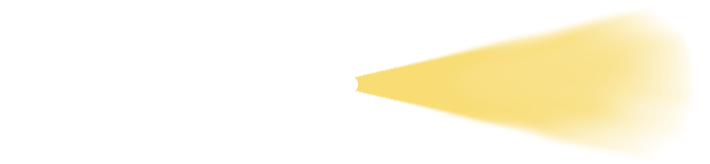
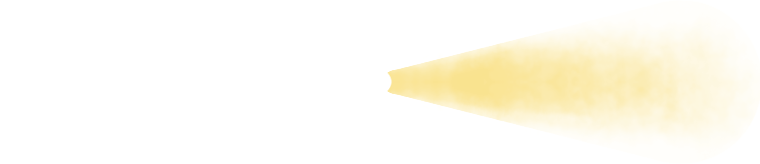
rework de sprites e implementação de sistema de estamina

Changed region(s): [[0.4958, 0.061, 0.9606, 0.9146]]

diff --git a/cliente/js/patio.js b/cliente/js/patio.js
@@ -5,12 +5,8 @@ export default class abertura extends Phaser.Scene {
   constructor () {
     super('patio')
     this.threshold = 0.1
-    this.speed = 110
-    this.frameRate = 25
     this.direcaoAtual = 'frente'
   }
-  //Corrida 110 25
-  //Caminhada 75 18
 
   init() { }
 
@@ -24,7 +20,7 @@ export default class abertura extends Phaser.Scene {
       frameHeight: 64
     })
 
-    this.load.spritesheet('Dan', 'assets/Dan.png', {
+    this.load.spritesheet('Dan', 'assets/dan.png', {
       frameWidth: 64,
       frameHeight: 64
     })
@@ -49,6 +45,8 @@ export default class abertura extends Phaser.Scene {
   }
 
   create() {
+
+    //Sons
     this.trilha = this.sound.add("trilha-sonora", {
       loop: true,
       volume: 0.4,
@@ -57,6 +55,9 @@ export default class abertura extends Phaser.Scene {
       loop: true,
       volume: 0.2
     }).play()
+    this.passos = this.sound.add('passos', {
+      volume: 0.5,
+    })
 
     this.tilemapMapa = this.make.tilemap({ key: 'mapa' })
     // Da um nome prar cada Tileset
@@ -69,12 +70,14 @@ export default class abertura extends Phaser.Scene {
     this.layerChao = this.tilemapMapa.createLayer('chao', [this.tilesetGrama, this.tilesetPedras])
 
     this.lanternaLocal = this.add.image(0, 0, 'lanterna')
-    this.lanternaLocal.setAlpha(0.5)
-    this.lanternaLocal.setBlendMode(Phaser.BlendModes.ADD)
+    this.lanternaLocal
+      .setAlpha(0.7)
+      .setBlendMode(Phaser.BlendModes.ADD)
 
     this.lanternaRemota = this.add.image(0, 0, 'lanterna')
-    this.lanternaRemota.setAlpha(0.5)
-    this.lanternaRemota.setBlendMode(Phaser.BlendModes.ADD)
+    this.lanternaRemota
+      .setAlpha(0.7)
+      .setBlendMode(Phaser.BlendModes.ADD)
 
     if (this.game.jogadores.primeiro === this.game.socket.id) {
       this.game.remoteConnection = new RTCPeerConnection(this.game.iceServers);
@@ -122,6 +125,35 @@ export default class abertura extends Phaser.Scene {
 
       this.personagemLocal = this.physics.add.sprite(300, 400, 'ernesto')
       this.personagemRemoto = this.add.sprite(350, 450, 'Dan')
+      this.speed = 75
+      this.frameRate = 18
+      this.personagemLocal.stamina = 650
+      this.personagemLocal.cansado = 0
+
+      this.barraStaminaMeio = this.add.circle(0, 0, 150 / 50, 0x000000)
+      this.barraStaminaMeio.depth = 102
+
+      this.barraStamina = this.add.circle(0, 0, this.personagemLocal.stamina / 50, 0x1a620e)
+      this.barraStamina.depth = 101
+
+      this.barraStaminaFundo = this.add.circle(0, 0, 700 / 50, 0x000000)
+      this.barraStaminaFundo.depth = 100
+
+      //Botão de corrida
+      this.add.circle(700, 400, 30, 0xcccccc)
+        .setInteractive()
+        .setScrollFactor(0)
+        .on('pointerdown', () => {
+          this.speed = 150
+          this.frameRate = 25
+          this.personagemLocal.movimento = 'correndo'
+        })
+        .on('pointerup', () => {
+          this.speed = 90
+          this.frameRate = 18
+          this.personagemLocal.movimento = 'andando'
+        })
+        .depth = 100
 
     } else if (this.game.jogadores.segundo === this.game.socket.id) {
       this.game.localConnection = new RTCPeerConnection(this.game.iceServers);
@@ -170,6 +202,35 @@ export default class abertura extends Phaser.Scene {
 
       this.personagemLocal = this.physics.add.sprite(350, 450, 'Dan')
       this.personagemRemoto = this.add.sprite(300, 400, 'ernesto')
+      this.speed = 90
+      this.frameRate = 18
+      this.personagemLocal.stamina = 650
+      this.personagemLocal.cansado = 0
+
+      this.barraStaminaMeio = this.add.circle(0, 0, 150 / 50, 0x000000)
+      this.barraStaminaMeio.depth = 102
+
+      this.barraStamina = this.add.circle(0, 0, this.personagemLocal.stamina / 50, 0x1a620e)
+      this.barraStamina.depth = 101
+
+      this.barraStaminaFundo = this.add.circle(0, 0, 700 / 50, 0x000000)
+      this.barraStaminaFundo.depth = 100
+
+      //Botão de corrida
+      this.add.circle(700, 400, 30, 0xcccccc)
+        .setInteractive()
+        .setScrollFactor(0)
+        .on('pointerdown', () => {
+          this.speed = 150
+          this.frameRate = 25
+          this.personagemLocal.movimento = 'correndo'
+        })
+        .on('pointerup', () => {
+          this.speed = 90
+          this.frameRate = 18
+          this.personagemLocal.movimento = 'andando'
+        })
+        .depth = 100
 
     } else {
       window.alert("Sala cheia!")
@@ -202,13 +263,6 @@ export default class abertura extends Phaser.Scene {
     };
 
     this.layerObjetos = this.tilemapMapa.createLayer('objetos', [this.tilesetArvores])
-    //
-
-    this.anims.create({
-      key: 'botao',
-      frames: this.anims.generateFrameNumbers('botao', { start: 0, end: 0 }),
-      frameRate: 30
-    })
 
 
     //Fisica do player
@@ -216,10 +270,8 @@ export default class abertura extends Phaser.Scene {
     this.layerObjetos.setCollisionByProperty({ collides: true })
     this.physics.add.collider(this.personagemLocal, this.layerObjetos)
     this.cameras.main.startFollow(this.personagemLocal, true, 0.05, 0.05)
-    //
 
     //Animacoes do personagem andando
-
     this.anims.create({
       key: 'personagem-andando-baixo',
       frames: this.anims.generateFrameNumbers(this.personagemLocal.texture.key, { start: 0, end: 12 }),
@@ -321,7 +373,7 @@ export default class abertura extends Phaser.Scene {
     })
 
     //Camada para escurecer o fundo
-    this.noite = this.add.rectangle(0, 0, 1600, 1200, 0x472a66, 0.75)
+    this.noite = this.add.rectangle(1600, 1200, 1600, 1200, 0x472a66, 0.75)
     this.noite.setBlendMode(Phaser.BlendModes.MULTIPLY)
 
     //chuva
@@ -344,68 +396,85 @@ export default class abertura extends Phaser.Scene {
       thumb: this.add.circle(120, 360, 25, 0xcccccc)
     })
 
-    //tenta Fullscreen
-    /*
-     this.fullscreen = this.add.rectangle(0, 0, 5000, 3000, 0x000000, 0)
-    this.fullscreen.setInteractive()
-      .on('pointerdown', () => {
-        this.scale.startFullscreen()
-        this.fullscreen.destroy()
-      })
-    */
-
-    //Modulação dos passos
-    this.passos = this.sound.add('passos', {
-      volume: 0.5,
-    })
-
-    //Botão de corrida
-    this.add.circle(700, 400, 30, 0xcccccc)
-      .setInteractive()
-      .setScrollFactor(0)
-      .on('pointerdown', () => {
-        this.speed = 110
-        this.frameRate = 25
-      })
-      .on('pointerup', () => {
-        this.speed = 75
-        this.frameRate = 18
-      })
     this.gatos = [
       { x: 100, y: 100 },
       { x: 100, y: 200 },
       { x: 200, y: 200 },
       { x: 250, y: 300 },
     ]
-    
+
     this.gatos.forEach((gato) => {
       gato.objeto = this.physics.add.sprite(gato.x, gato.y, 'gato')
       gato.objeto.play('gato-teste')
-      this.physics.add.overlap(this.personagemLocal, gato.objeto, (personagem, gato) => {gato.disableBody(true, true)}, null, this)
-     });
+      this.physics.add.overlap(this.personagemLocal, gato.objeto, (personagem, gato) => { gato.disableBody(true, true) }, null, this)
+    });
   }
 
   update() {
-    console.log(this.angleRemoto)
+    console.log(this.barraStaminaFundo.radius)
+    this.barraStamina.setAlpha(1)
 
     const angle = Phaser.Math.DegToRad(this.joystick.angle) // Converte o ângulo para radianos
     const force = this.joystick.force
 
+    if (angle != 0) {
+      this.ultimoAngulo = angle
+    }
+
+    if (this.personagemLocal.movimento == 'andando' && this.personagemLocal.stamina != 650) {
+      this.personagemLocal.stamina += 1
+      this.barraStamina.radius = this.personagemLocal.stamina / 50
+
+    } else if (this.personagemLocal.stamina == 650) {
+      this.personagemLocal.cansado = 0
+      this.barraStamina.setFillStyle(0x309a06)
+      this.barraStamina.setAlpha(0)
+      // this.barraStaminaFundo.setAlpha(0)
+      this.barraStaminaMeio.setAlpha(1)
+      this.barraStaminaMeio.setFillStyle(0x309a06)
+
+      if (this.barraStaminaFundo.radius >= this.barraStaminaMeio.radius + 1) {
+        this.barraStaminaFundo.radius -= 0.4
+      }
+    }
+
     this.lanternaRemota.setPosition(this.personagemRemoto.x, this.personagemRemoto.y + 15)
     this.lanternaRemota.setRotation(this.angleRemoto)
+    this.lanternaLocal.setPosition(this.personagemLocal.x, this.personagemLocal.y + 15)
+    this.lanternaLocal.setRotation(this.ultimoAngulo)
+    this.noite.setPosition(this.personagemLocal.x, this.personagemLocal.y)
 
     if (force > this.threshold) {
-
 
       const velocityX = Math.round(Math.cos(angle) * this.speed)
       const velocityY = Math.round(Math.sin(angle) * this.speed)
 
-      this.lanternaLocal.setPosition(this.personagemLocal.x, this.personagemLocal.y + 15)
-      this.lanternaLocal.setRotation(angle)
+      if (this.personagemLocal.cansado == 0) {
+        if (this.personagemLocal.movimento == 'correndo' && this.personagemLocal.stamina > 150) {
+          this.personagemLocal.stamina -= 1
+          this.barraStamina.setAlpha(1)
+          this.barraStaminaFundo.setAlpha(1)
+          this.barraStaminaMeio.setAlpha(1)
+          this.barraStaminaMeio.setFillStyle(0x000000)
+          this.barraStamina.radius = this.personagemLocal.stamina / 50
+          this.barraStaminaFundo.radius = 650 / 50 + 2
+        }
+        else if (this.personagemLocal.stamina == 150) {
+          this.personagemLocal.movimento = 'andando'
+          this.personagemLocal.cansado = 1
+          this.barraStamina.setAlpha(1)
+          this.barraStaminaFundo.setAlpha(1)
+          this.barraStaminaMeio.setAlpha(1)
+          this.barraStamina.setFillStyle(0x9a3706)
+          this.speed = 75
+        }
+      }
 
       this.personagemLocal.setVelocity(velocityX, velocityY)
       this.cameras.main.followOffset.setTo(- velocityX, - velocityY)
-      this.noite.setPosition(this.personagemLocal.x, this.personagemLocal.y)
+      this.barraStamina.setPosition(this.personagemLocal.x - ((Math.cos(angle) * 30)), this.personagemLocal.y + (Math.abs(Math.cos(angle) * 30)) - 70)
+      this.barraStaminaFundo.setPosition(this.personagemLocal.x - ((Math.cos(angle) * 30)), this.personagemLocal.y + (Math.abs(Math.cos(angle) * 30)) - 70)
+      this.barraStaminaMeio.setPosition(this.personagemLocal.x - ((Math.cos(angle) * 30)), this.personagemLocal.y + (Math.abs(Math.cos(angle) * 30)) - 70)
 
       // Acha o aungulo mais próximo da direção do joystick
       let o = undefined
@@ -511,7 +580,7 @@ export default class abertura extends Phaser.Scene {
                 x: this.personagemLocal.x,
                 y: this.personagemLocal.y,
                 frame: this.personagemLocal.frame.name,
-                lanterna: angle
+                lanterna: this.ultimoAngulo
               },
               gatos: this.gatos.map(gato => (gato => ({ visible: gato.objeto.visible }))(gato)),
             })

diff --git a/cliente/js/preload.js b/cliente/js/preload.js
@@ -18,7 +18,7 @@ export default class abertura extends Phaser.Scene {
       frameHeight: 64
     })
     this.load.image('fundo', 'assets/abertura-fundo.png')
-    this.load.spritesheet('Dan', 'assets/Dan.png', {
+    this.load.spritesheet('Dan', 'assets/dan.png', {
       frameWidth: 64,
       frameHeight: 64
     }),
